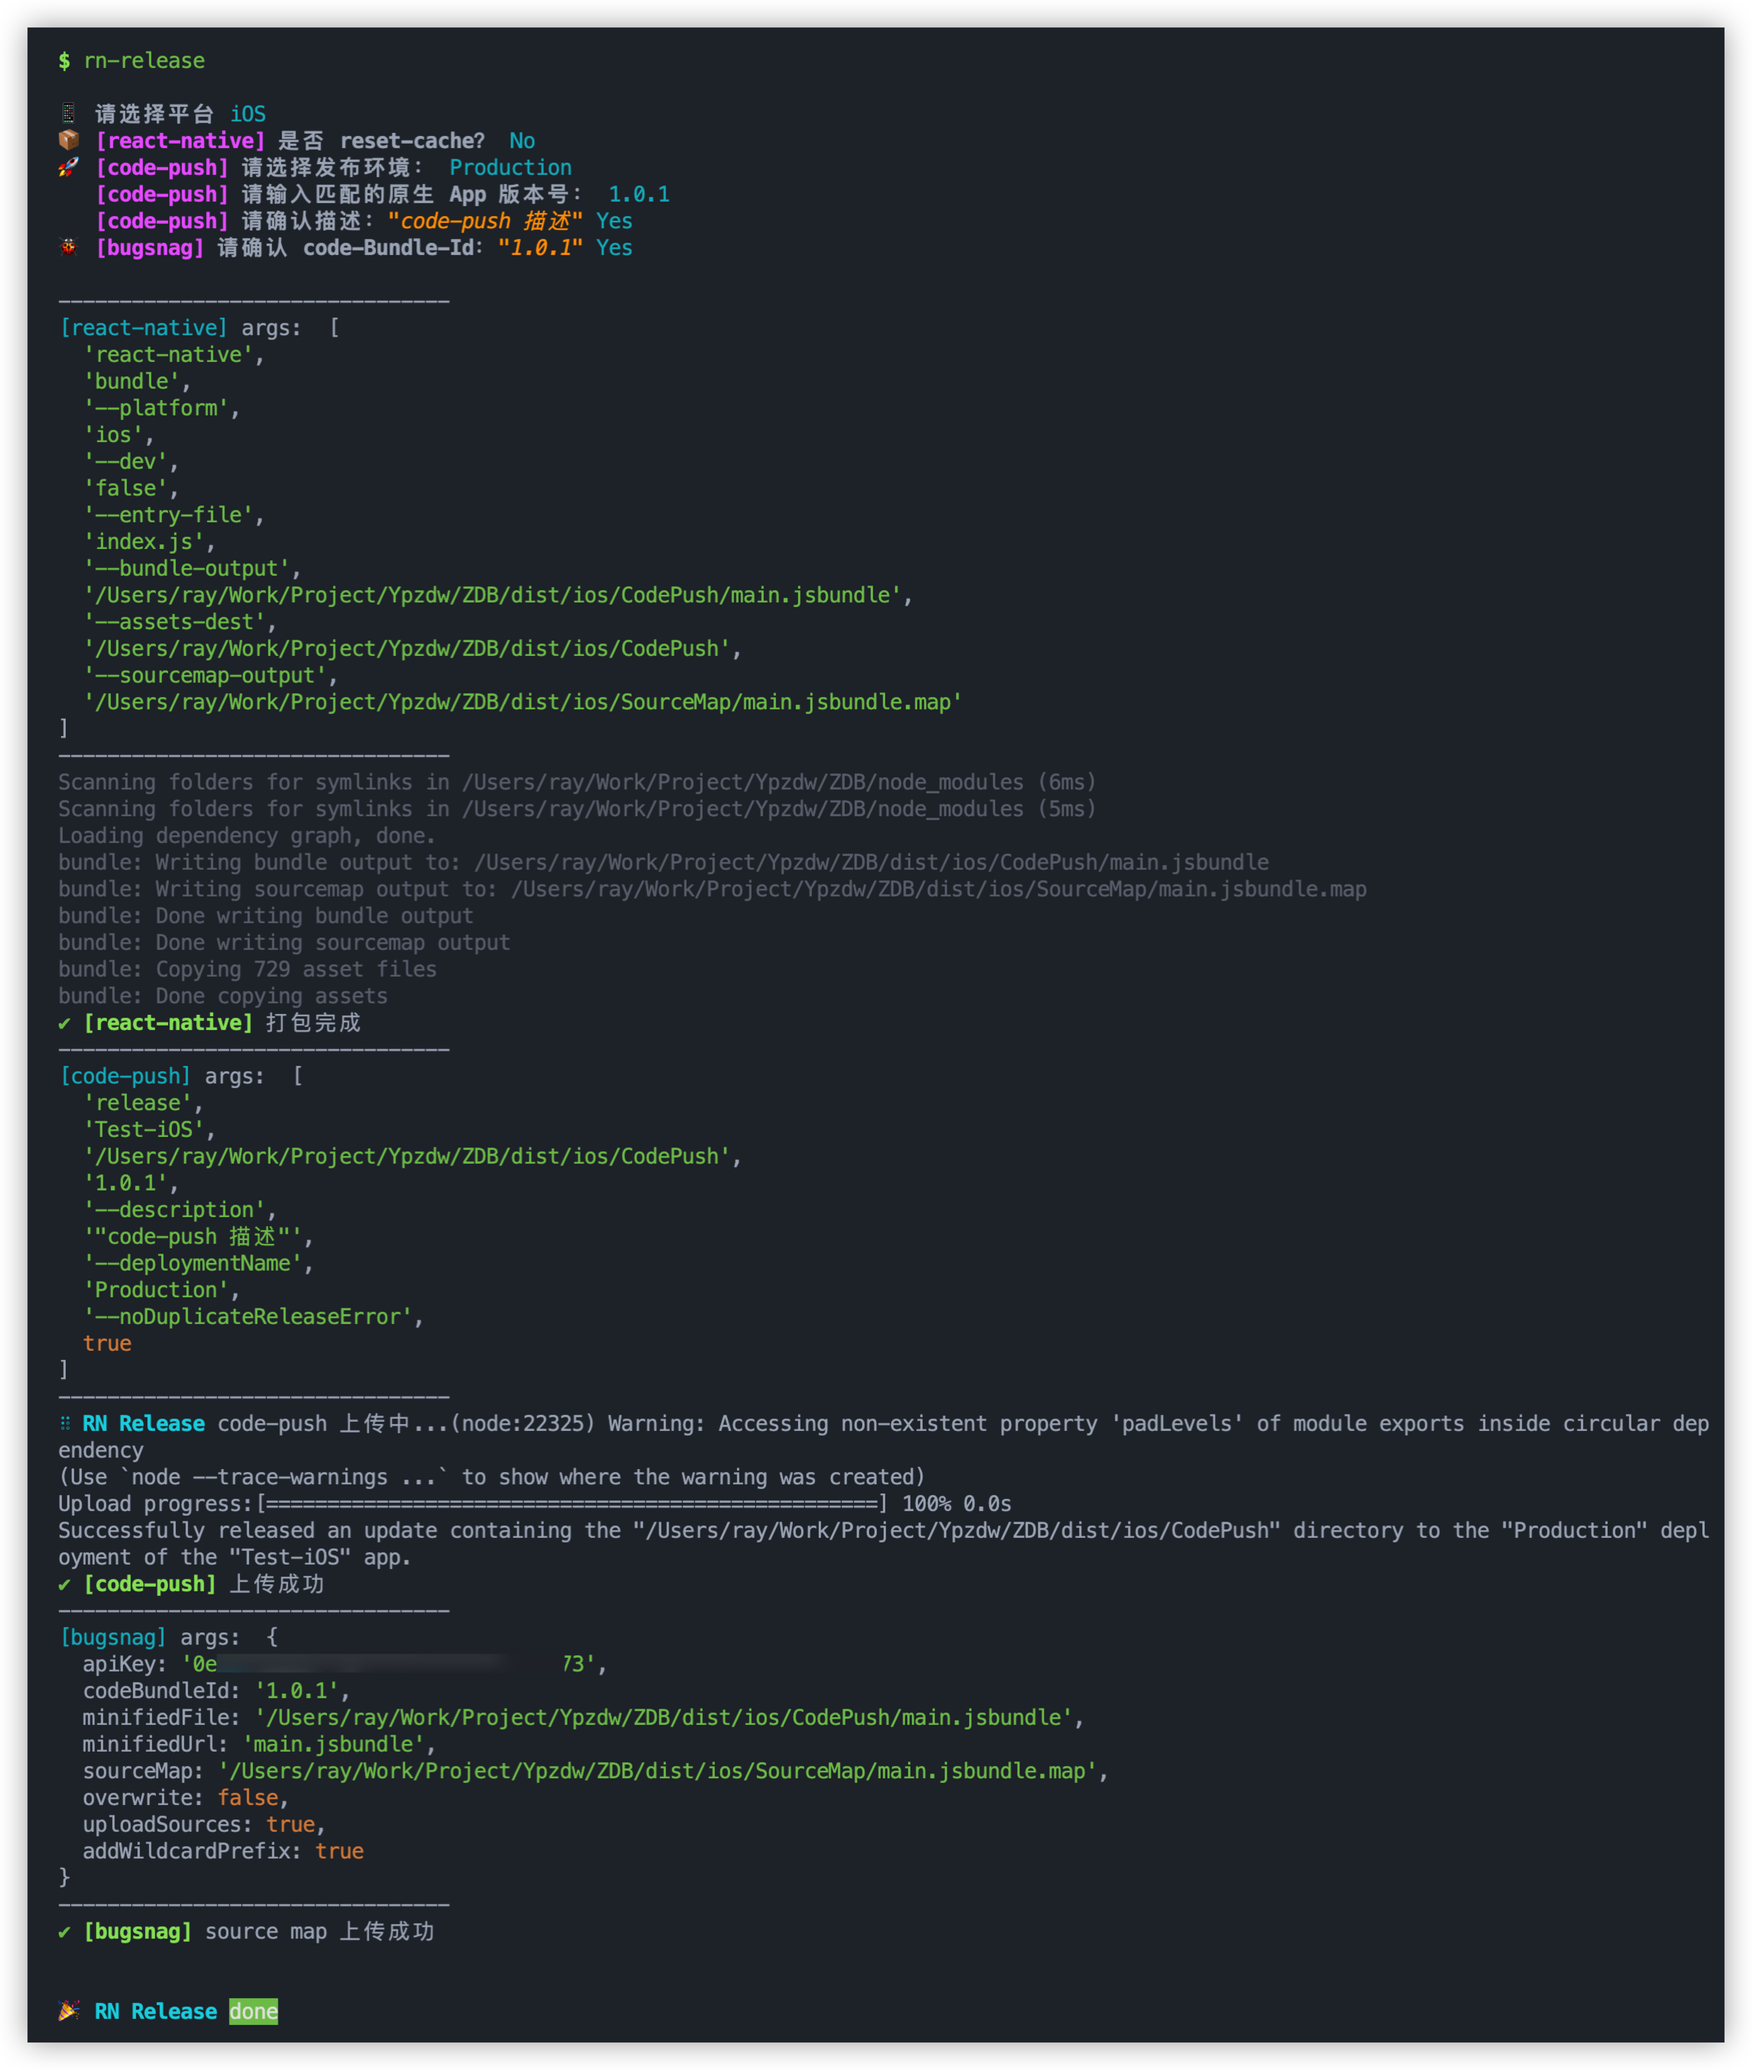
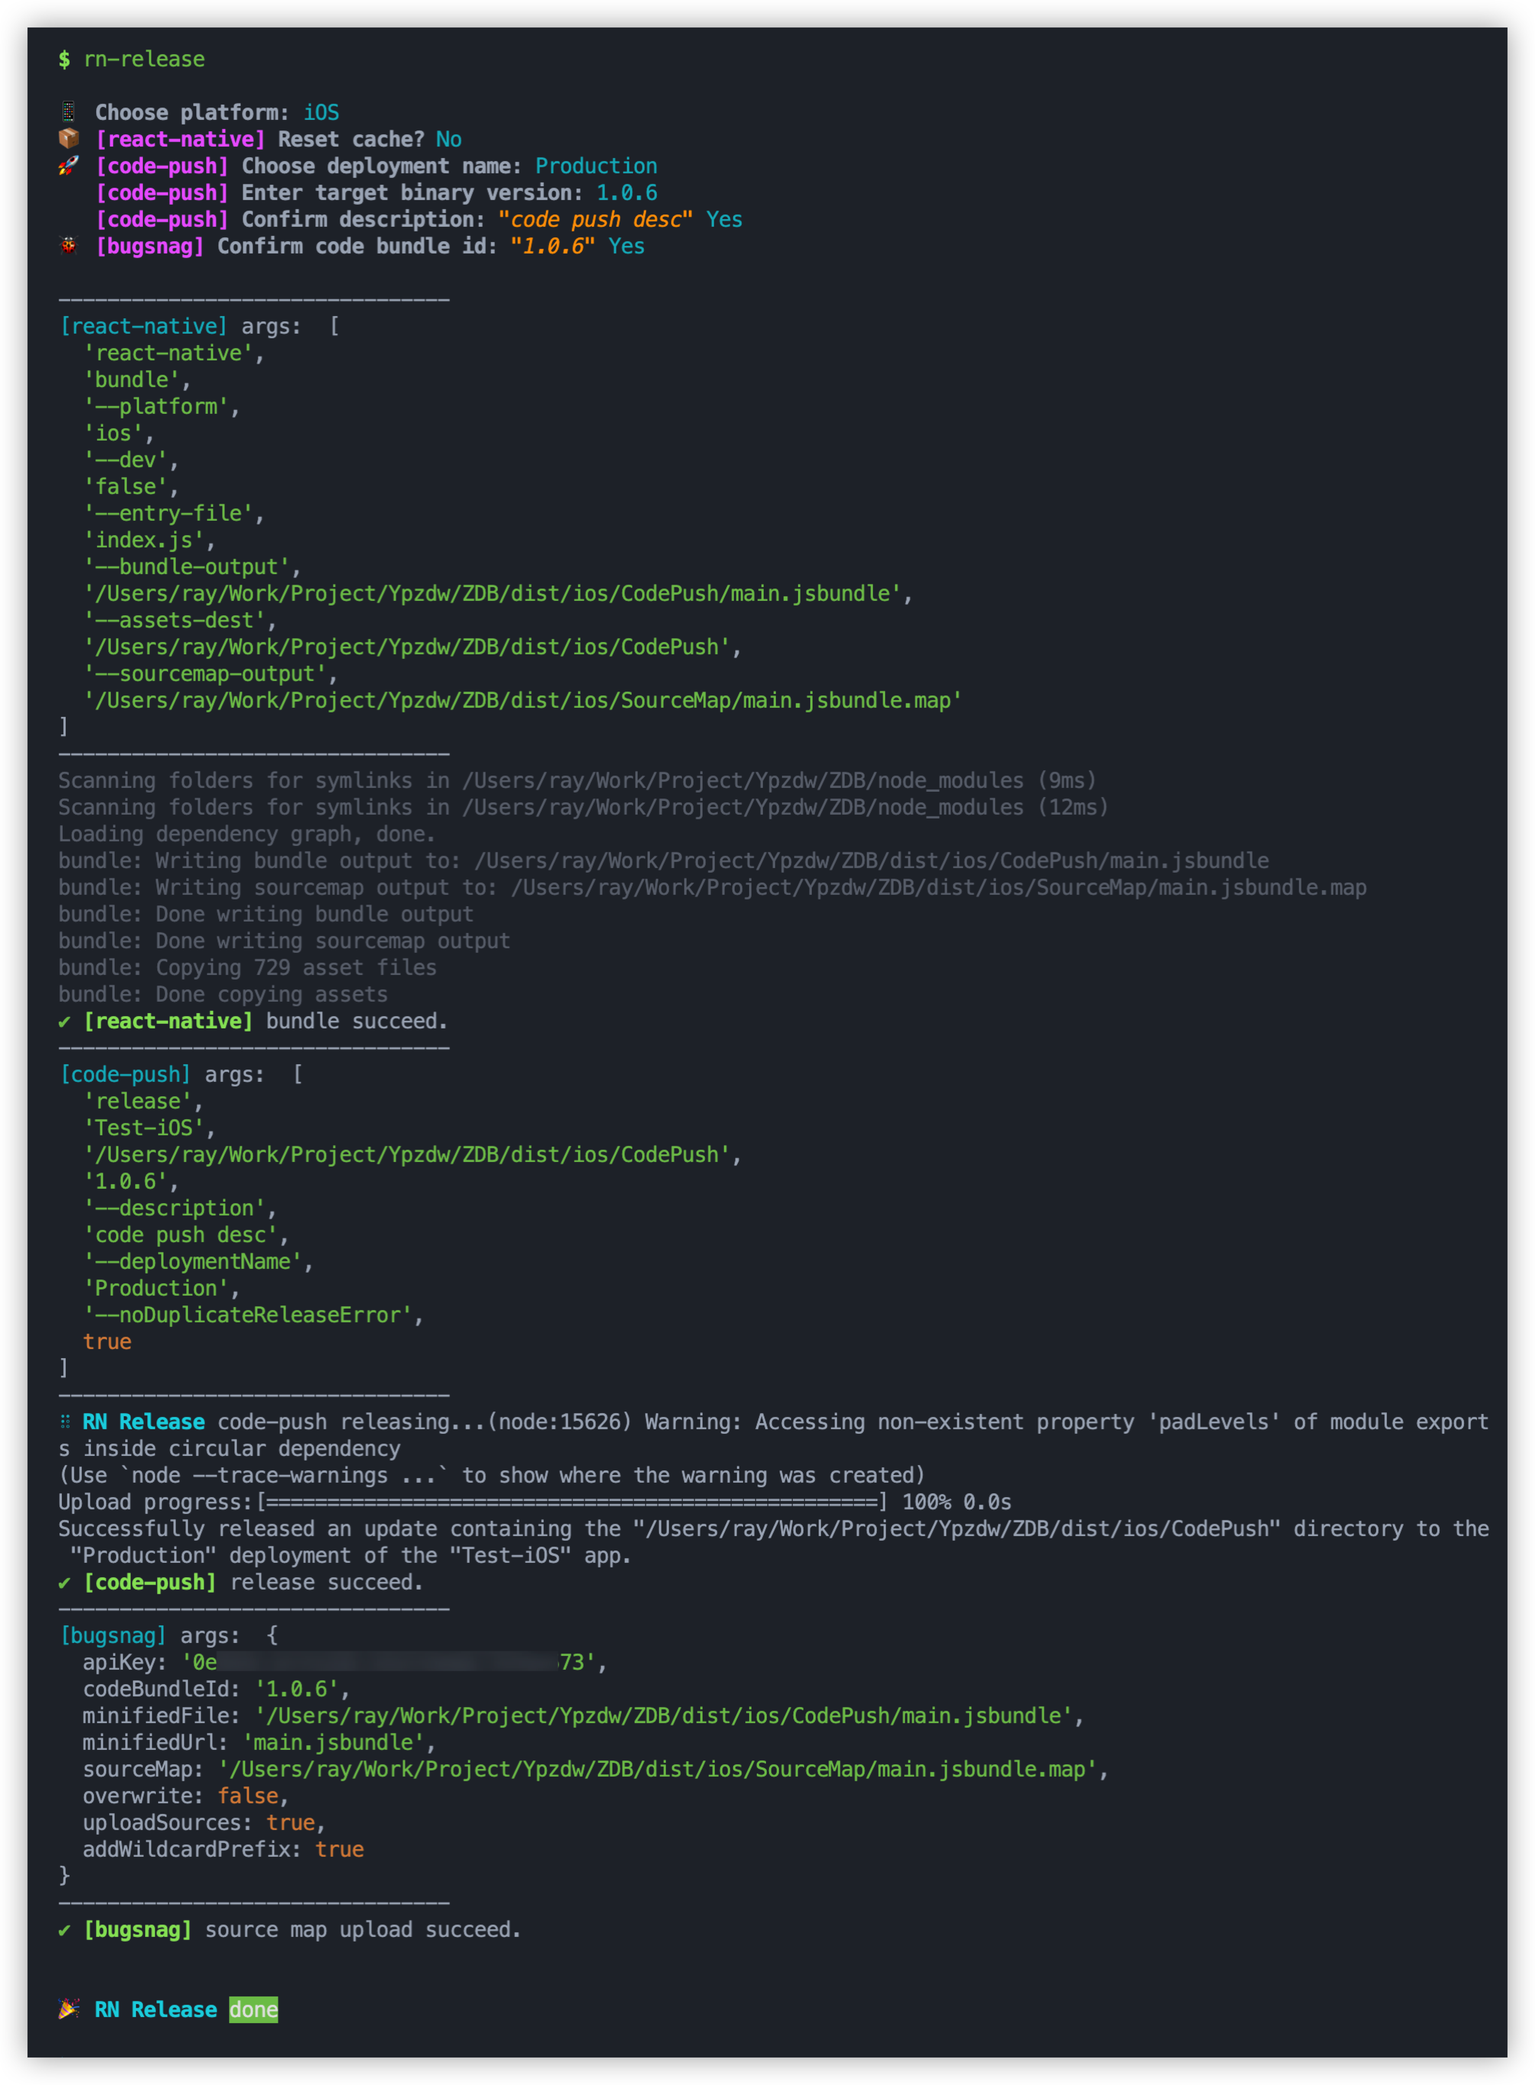
feat: change prompt to en.

diff --git a/lib/prompt.js b/lib/prompt.js
@@ -28,7 +28,7 @@ class Prompt {
           {
             type: 'list',
             name: 'platform',
-            message: `请选择平台`,
+            message: `Choose platform:`,
             prefix: taskPromptFormat('📱'),
             choices: [
               {
@@ -55,7 +55,7 @@ class Prompt {
           {
             type: "confirm",
             name: "entryFileConfirm",
-            message: `${ReactNativeTaskPrompt} 确定打包入口文件 (${entryFile})`,
+            message: `${ReactNativeTaskPrompt} Confirm the entry file: (${entryFile})`,
             prefix: taskPromptFormat('📦'),
             default: true
           }
@@ -78,7 +78,7 @@ class Prompt {
           {
             type: "input",
             name: "entryFileName",
-            message: `${ReactNativeTaskPrompt} 请输入打包入口文件名称`,
+            message: `${ReactNativeTaskPrompt} Enter the entry file Name:`,
             prefix: taskPromptFormat('📦'),
             default: "index.js"
           }
@@ -96,7 +96,7 @@ class Prompt {
           {
             type: "confirm",
             name: "isBundleResetCache",
-            message: `${ReactNativeTaskPrompt} 是否 reset-cache？`,
+            message: `${ReactNativeTaskPrompt} Reset cache?`,
             prefix: taskPromptFormat('📦'),
             default: false
           }
@@ -118,7 +118,7 @@ class Prompt {
           {
             type: 'list',
             name: 'env',
-            message: `${CodePushTaskPrompt} 请选择发布环境：`,
+            message: `${CodePushTaskPrompt} Choose deployment name:`,
             prefix: taskPromptFormat('🚀'),
             choices: [
               {
@@ -145,13 +145,13 @@ class Prompt {
           {
             type: "input",
             name: "targetBinaryVersion",
-            message: `${CodePushTaskPrompt} 请输入匹配的原生 App 版本号：`,
+            message: `${CodePushTaskPrompt} Enter target binary version:`,
             prefix: taskPromptFormat('　'),
             validate: input => {
               if (input.length > 0) {
                 return true;
               }
-              return "请输入正确的版本号（eg: 1.0 或者 1.0-2.0）";
+              return "Version can not be empty (Enter version like: 1.0 or 1.0-2.0)";
             }
           }
         ])
@@ -168,7 +168,7 @@ class Prompt {
           {
             type: "confirm",
             name: "codePushDescConfirmed",
-            message: `${CodePushTaskPrompt} 请确认描述：${promptMessageStrFormat(`"${desc}"`)}`,
+            message: `${CodePushTaskPrompt} Confirm description: ${promptMessageStrFormat(`"${desc}"`)}`,
             prefix: taskPromptFormat('　'),
             default: true
           }
@@ -190,7 +190,7 @@ class Prompt {
           {
             type: "confirm",
             name: "codeBundleIdConfirmed",
-            message: `${BugsnagTaskPrompt} 请确认 code-Bundle-Id：${promptMessageStrFormat(`"${bundleId}"`)}`,
+            message: `${BugsnagTaskPrompt} Confirm code bundle id: ${promptMessageStrFormat(`"${bundleId}"`)}`,
             prefix: taskPromptFormat('🐞'),
             default: true
           }

diff --git a/bin/rn-release-cli.js b/bin/rn-release-cli.js
@@ -268,12 +268,12 @@ function mergeConfigFromProject(platform) {
   const { fileName: versionConfigFileName, key: versionConfigKeyConfig } = versionConfig
 
   if (!versionConfigFileName) {
-    fail(`未指定 \`rn-release.config.json\` 中属性值：\`versionConfig.fileName\``);
+    fail(`Please set the value of \`versionConfig.fileName\` in \`rn-release.config.json\`.`);
   }
 
   const { bugsnagUploadCodeBundleId, codePushReleaseDescription } = versionConfigKeyConfig
   if (!bugsnagUploadCodeBundleId) {
-    fail(`未指定 \`rn-release.config.json\` 中属性值：\`versionConfig.key.bugsnagUploadCodeBundleId\``);
+    fail(`Please set the value of \`versionConfig.key.bugsnagUploadCodeBundleId\` in \`rn-release.config.json\`.`);
   }
 
   // version file 配置检测
@@ -289,7 +289,7 @@ function mergeConfigFromProject(platform) {
   // codePush 配置检测
   if (codePushRelease) {
     if (!codePushOptions.appName) {
-      fail(`\n未配置 \`rn-release.config.json\`，或未配置 codePushOptions ${platform} 平台的 \`appName\``);
+      fail(`File \`rn-release.config.json\` is not configed, or the value of  \`appName\` is not configed in codePushOptions.${platform}.`);
     }
 
     if (!codePushReleaseDescription) {
@@ -325,11 +325,11 @@ function mergeConfigFromProject(platform) {
     bugsnagOptions.codeBundleId = bugsnagCodeBundleId
 
     if (!bugsnagOptions.apiKey) {
-      fail(`未配置 \`rn-release.config.json\`，或未配置 bugsnagOptions 的 \`apiKey\``);
+      fail(`File \`rn-release.config.json\` is not configed, or the value of \`apiKey\` is not configed in bugsnagOptions.`);
     }
 
     if (!bugsnagOptions.codeBundleId) {
-      fail(`未配置 \`${versionConfig.fileName}\`，或未配置 \`${versionConfig.key.bugsnagUploadCodeBundleId}\``);
+      fail(`File \`${versionConfig.fileName}\` is not configed, or the value of \`${versionConfig.key.bugsnagUploadCodeBundleId}\` is not configed.`);
     }
   }
 }
@@ -357,14 +357,14 @@ async function codePushPromptHandle() {
   // code-push 描述确认
   const codePushDescConfirmed = await prompt.codePushDescConfirm(codePushOptions.desc)
   if (!codePushDescConfirmed) {
-    fail(`\n请确认 '${versionConfig.fileName}' 中 '${versionConfig.key.codePushReleaseDescription}' 的值`)
+    fail(`Please confirm the value of '${versionConfig.key.codePushReleaseDescription}' in '${versionConfig.fileName}'.`)
   }
 }
 
 async function bugsnagPromptHandle() {
   const bundleIdConfirmed = await prompt.bugsnagBundleIdConfirm(bugsnagOptions.codeBundleId)
   if (!bundleIdConfirmed) {
-    fail(`\n请确认 '${versionConfig.fileName}' 中 '${versionConfig.key.bugsnagUploadCodeBundleId}' 的值`)
+    fail(`Please confirm the value of '${versionConfig.key.bugsnagUploadCodeBundleId}' in '${versionConfig.fileName}'.`)
   }
 }
 
@@ -427,6 +427,7 @@ function done() {
 
 function fail(failMsg = '') {
   if (failMsg) {
+    console.log('')
     ora().fail(chalk.dim(failMsg));
   }
   process.exit(1)

diff --git a/lib/code-push.js b/lib/code-push.js
@@ -41,7 +41,7 @@ function releaseBundle(options) {
     console.log(`${infoPrompt} args: `, codePushArgs)
     console.log(`--------------------------------`);
 
-    const loading = `${Constants.RNReleaseCLI} code-push 上传中...`
+    const loading = `${Constants.RNReleaseCLI} code-push releasing...`
     const spinner = ora(loading);
     spinner.start();
 
@@ -57,16 +57,15 @@ function releaseBundle(options) {
 
     if (releaseProcess.status !== 0) {
       if (releaseProcess.error) {
-        console.log('Error: ', releaseProcess.error.message)
-        spinner.fail(`${Constants.RNReleaseCLI} ${releaseProcess.error.message || ''}`)
+        spinner.fail(`${failPrompt} release failed: ${releaseProcess.error.message || ''}.`)
       } else {
-        spinner.fail(`${failPrompt} 上传失败`)
+        spinner.fail(`${failPrompt} release failed.`)
       }
       reject()
       return
     }
 
-    spinner.succeed(`${succeedPrompt} 上传成功`)
+    spinner.succeed(`${succeedPrompt} release succeed.`)
     resolve()
   })
 }

diff --git a/lib/bundle.js b/lib/bundle.js
@@ -64,7 +64,7 @@ function rnBundleAsync(options) {
     console.log(`${infoPrompt} args: `, bundleArgs)
     console.log(`--------------------------------`);
 
-    const spinner = ora(`${Constants.RNReleaseCLI} ${Constants.ReactNativePromptStr} 打包中...`)
+    const spinner = ora(`${Constants.RNReleaseCLI} ${Constants.ReactNativePromptStr} bundling...`)
     spinner.start()
 
     // const { status, error } = spawn.sync(
@@ -105,10 +105,10 @@ function rnBundleAsync(options) {
 
     bundleProcess.on('close', (code) => {
       if (code === 0) {
-        spinner.succeed(`${succeedPrompt} 打包完成`);
+        spinner.succeed(`${succeedPrompt} bundle succeed.`);
         resolve()
       } else {
-        spinner.fail(`${failPrompt} 打包失败：${chalk.red(code)}`);
+        spinner.fail(`${failPrompt} bundle failed: ${chalk.red(code)}.`);
         process.exit(1)
       }
     })

diff --git a/lib/bugsnag.js b/lib/bugsnag.js
@@ -44,17 +44,17 @@ function uploadSourceMap(options) {
     console.log(`${infoPrompt} args: `, bugsnagOptions)
     console.log(`--------------------------------`);
 
-    const loading = `${Constants.RNReleaseCLI} bugsnag 上传中...`
+    const loading = `${Constants.RNReleaseCLI} bugsnag source map uploading...`
     const spinner = ora(loading);
     spinner.start();
 
     upload(bugsnagOptions, (err, message) => {
       if (err) {
-        spinner.fail(`${failPrompt} ${err.message}`)
+        spinner.fail(`${failPrompt} source map upload failed: ${err.message}.`)
         reject(err.message)
         return
       }
-      spinner.succeed(`${succeedPrompt} source map 上传成功`)
+      spinner.succeed(`${succeedPrompt} source map upload succeed.`)
       resolve()
     })
   })
